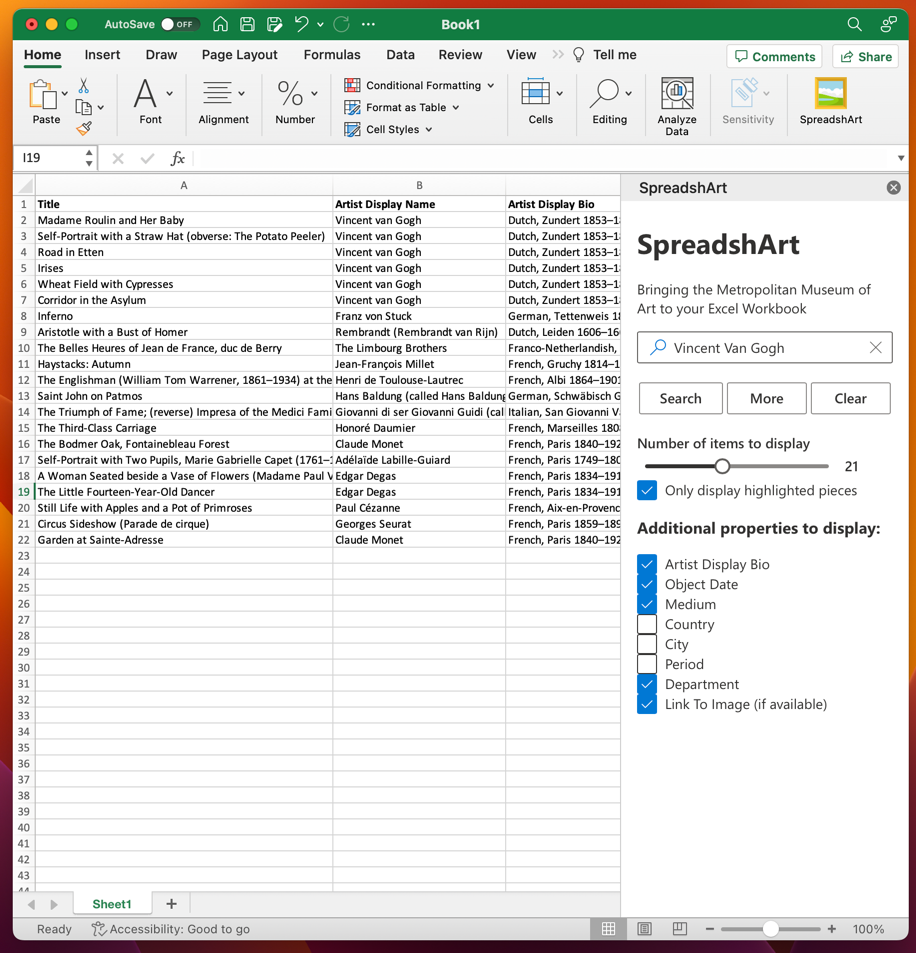
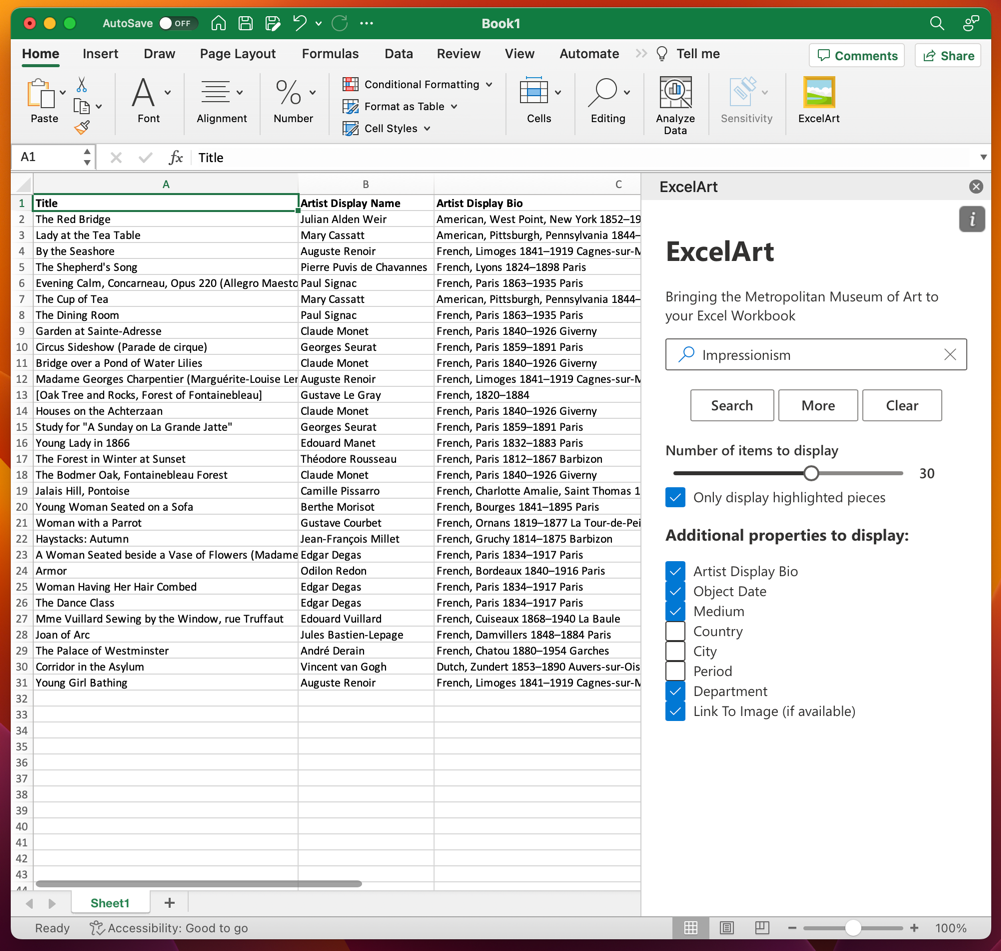
Rename to ExcelArt

Changed region(s): [[0.0, 0.0, 1.0, 1.0]]

diff --git a/src/taskpane/components/App.tsx b/src/taskpane/components/App.tsx
@@ -12,7 +12,7 @@ export const App: React.FC<AppProps> = ({ isOfficeInitialized }) => {
   if (!isOfficeInitialized) {
     return (
       <Progress
-        title={"SpreadshArt"}
+        title={"ExcelArt"}
         logo={require("./../../../assets/logo-filled.png")}
         message="Please sideload your addin to see app body."
       />
@@ -21,7 +21,7 @@ export const App: React.FC<AppProps> = ({ isOfficeInitialized }) => {
 
   return (
     <div style={{ padding: "0.25rem 1rem", height: "100%", backgroundColor: "white" }}>
-      <h1>SpreadshArt</h1>
+      <h1>ExcelArt</h1>
       <p>Bringing the Metropolitan Museum of Art to your Excel Workbook</p>
       <ArtSearch />
     </div>

diff --git a/README.md b/README.md
@@ -1,8 +1,8 @@
-# SpreadshArt
+# ExcelArt
 
 _An Excel Add-In demo to list entries from the Metropolitan Museum of Art's open API into an Excel workbook._
 
-![img.png](assets/screenshot.png)
+![screenshot](assets/screenshot.png)
 
 ## Installation
 
@@ -26,7 +26,7 @@ On Mac the process is slightly more complicated but still straightforward. Add t
 
 ### Windows
 
-The process is the most cumbersome on Windows. Follow the instructions below:
+On Windows the process is a little more complicated. Follow the instructions below:
 
 [Sideload Office Add-ins for testing from a network share](https://learn.microsoft.com/en-us/office/dev/add-ins/testing/create-a-network-shared-folder-catalog-for-task-pane-and-content-add-ins)
 
